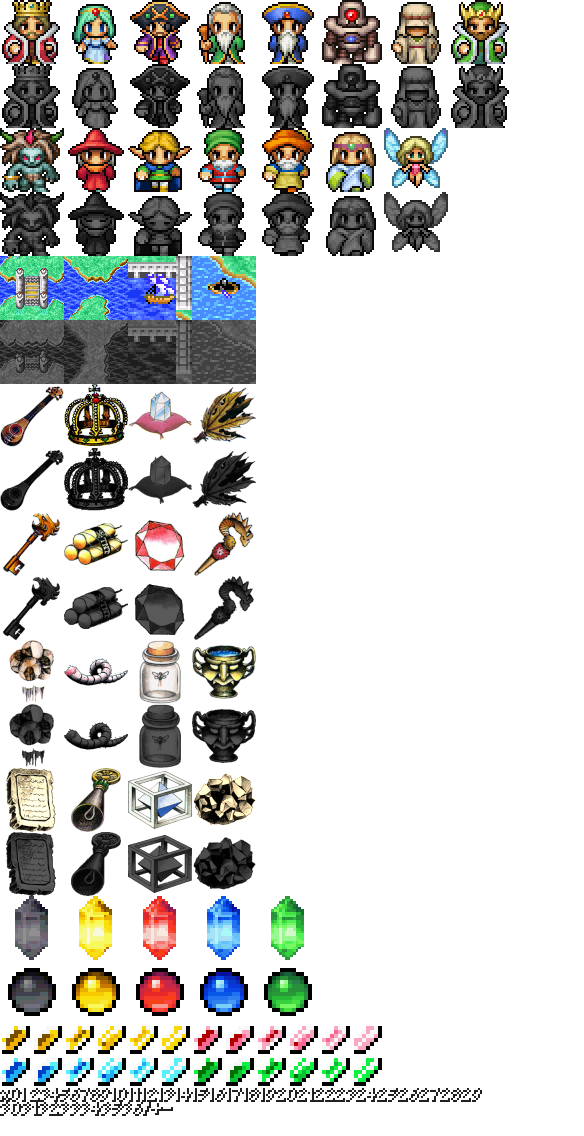
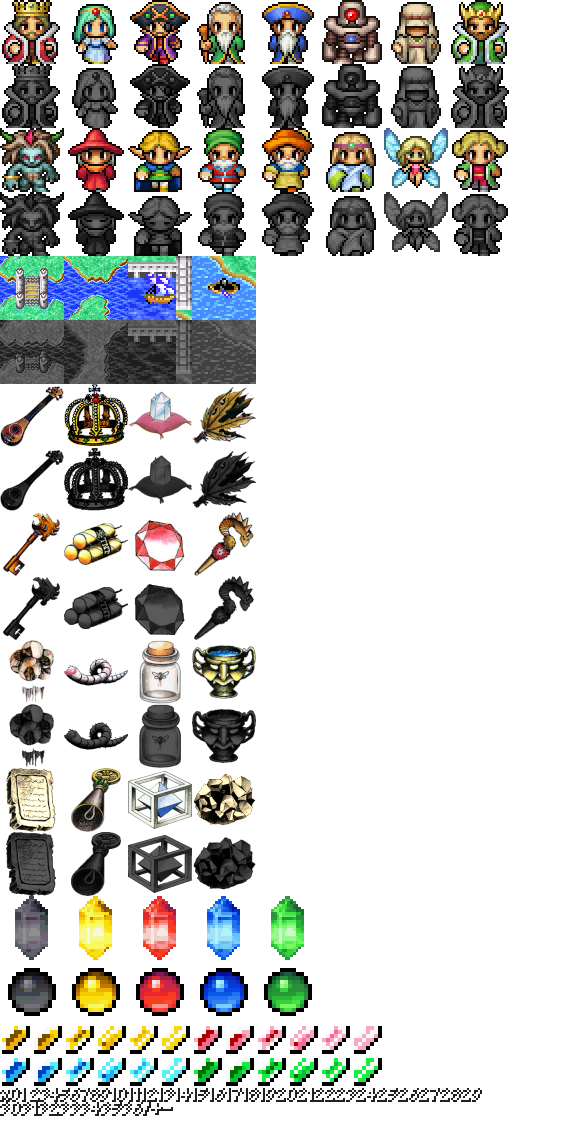
Add Dr. Unne

Changed region(s): [[0.7705, 0.0924, 0.863, 0.2465]]

diff --git a/src/properties/iconProperties.ts b/src/properties/iconProperties.ts
@@ -299,6 +299,14 @@ const smythOn: ICoordinates = {
   x: 256,
   y: 128,
 };
+const drUnneOff: ICoordinates = {
+  x: 448,
+  y: 192,
+};
+const drUnneOn: ICoordinates = {
+  x: 448,
+  y: 128,
+};
 const lefeinianOff: ICoordinates = {
   x: 320,
   y: 192,
@@ -1074,6 +1082,22 @@ export const smythIcon = (names: IItemNames): IIconProps => {
   };
 };
 
+export const drUnneIcon = (names: IItemNames): IIconProps => {
+  return {
+    title: names.drUnne,
+    shortName: names.drUnne,
+    toggleState: Toggle.off,
+    width: standardWidthHeight,
+    height: standardWidthHeight,
+    row: 1,
+    column: 5,
+    stateImageLocations: [drUnneOff, drUnneOn],
+    // empty props
+    settings: {} as ISettingsProps,
+    handleHover: () => {},
+  };
+};
+
 export const lefeinianIcon = (names: IItemNames): IIconProps => {
   return {
     title: names.lefeinian,
@@ -1082,7 +1106,7 @@ export const lefeinianIcon = (names: IItemNames): IIconProps => {
     width: standardWidthHeight,
     height: standardWidthHeight,
     row: 1,
-    column: 5,
+    column: 6,
     stateImageLocations: [lefeinianOff, lefeinianOn],
     // empty props
     settings: {} as ISettingsProps,
@@ -1099,8 +1123,7 @@ export const shopkeeperIcon = (names: IItemNames): IIconProps => {
     width: standardWidthHeight,
     height: standardWidthHeight,
     row: 0,
-    column: 6,
-    offsetX: 68,
+    column: 7,
     stateImageLocations: [shopkeeperOff, shopkeeperOn],
     // empty props
     settings: {} as ISettingsProps,
@@ -1116,8 +1139,7 @@ export const fairyIcon = (names: IItemNames): IIconProps => {
     width: standardWidthHeight,
     height: standardWidthHeight,
     row: 1,
-    column: 6,
-    offsetX: 68,
+    column: 7,
     stateImageLocations: [fairyOff, fairyOn],
     // empty props
     settings: {} as ISettingsProps,

diff --git a/src/strings.ts b/src/strings.ts
@@ -46,6 +46,7 @@ export interface IItemNames {
   elf: string;
   nerrick: string;
   smyth: string;
+  drUnne: string;
   lefeinian: string;
   shopkeeper: string;
   shopkeeperShortName: string;
@@ -105,6 +106,7 @@ export const OriginalItemNames: IItemNames = {
   elf: "Elf Prince",
   nerrick: "Nerrick",
   smyth: "Blacksmith",
+  drUnne: "Dr. Unne",
   lefeinian: "Lefeinian",
   shopkeeper: "Shopkeeper with item",
   shopkeeperShortName: "Shop Item",
@@ -164,6 +166,7 @@ export const ModernItemNames: IItemNames = {
   elf: "Elven Prince",
   nerrick: OriginalItemNames.nerrick,
   smyth: "Smyth",
+  drUnne: OriginalItemNames.drUnne,
   lefeinian: "Lufenian",
   shopkeeper: OriginalItemNames.shopkeeper,
   shopkeeperShortName: OriginalItemNames.shopkeeperShortName,

diff --git a/src/properties/trackerProperties.ts b/src/properties/trackerProperties.ts
@@ -186,6 +186,7 @@ export const npcsTrackerBox = (names: IItemNames, timerVisible: boolean, isModer
       Icons.elfIcon(names),
       Icons.nerrickIcon(names),
       Icons.smythIcon(names),
+      Icons.drUnneIcon(names),
       Icons.lefeinianIcon(names),
       Icons.fairyIcon(names),
     ],
